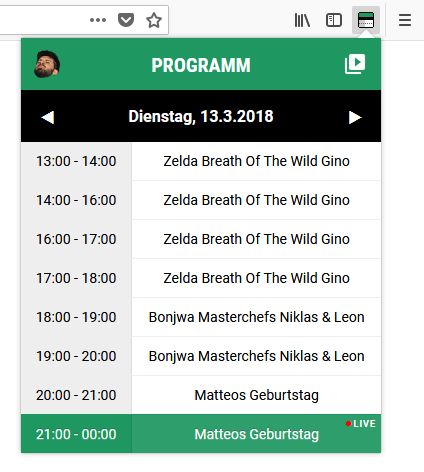
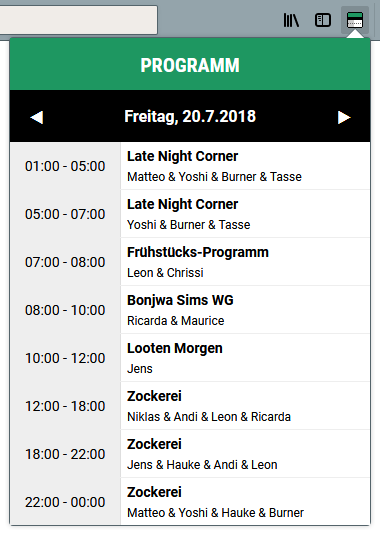
Change readme Change screenshots

diff --git a/README.md b/README.md
@@ -2,7 +2,7 @@
 
 Displays the latest schedule for the [Bonjwa Twitch channel](https://www.twitch.tv/bonjwa)
 
-Bonjwa Programm ist ein Add-on für den **Firefox** Browser, die den aktuellen Programmplan und Links zu älteren Übertragungen von den Bonjwa Twitch-Channel bereitstellt.
+Bonjwa Programm ist ein Add-on für den **Firefox** Browser, die den aktuellen Programmplan vom Bonjwa Twitch-Channel bereitstellt.
 
 ## Hinweis!
 
@@ -15,4 +15,3 @@ Die neuste Version kann über [addons.mozilla.org](https://addons.mozilla.org/de
 ## Screenshots
 
 ![Programm Screenshot](screenshots/screenshot_1.png?raw=true "Programm")
-![Past Broadcasts Screenshot](screenshots/screenshot_2.png?raw=true "Past Broadcasts")
